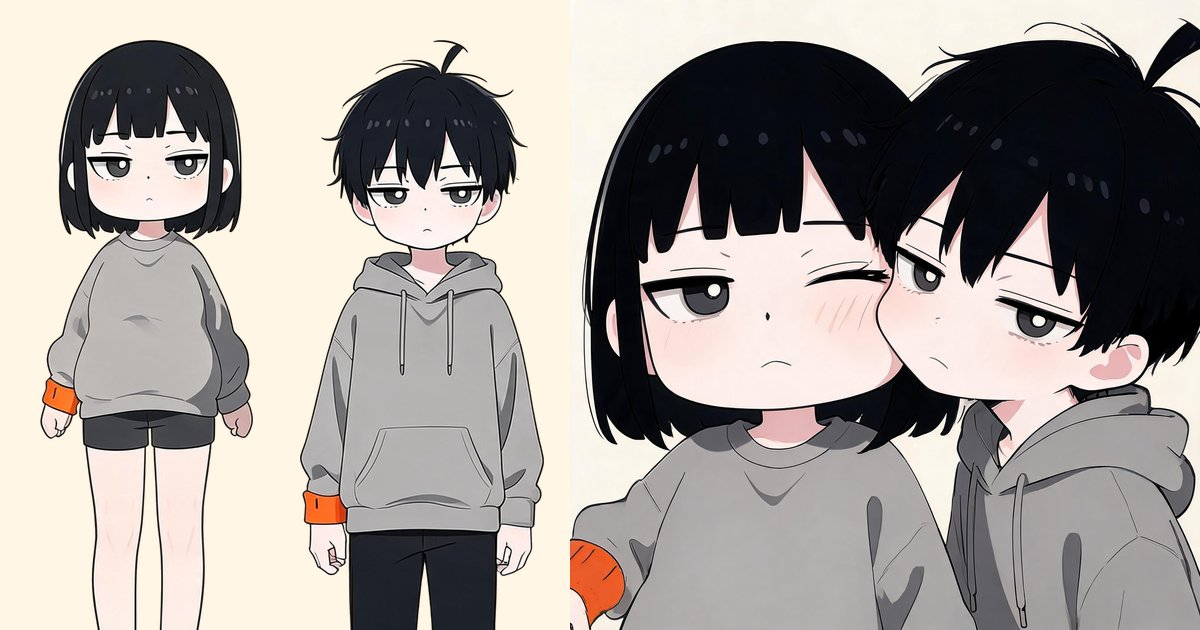
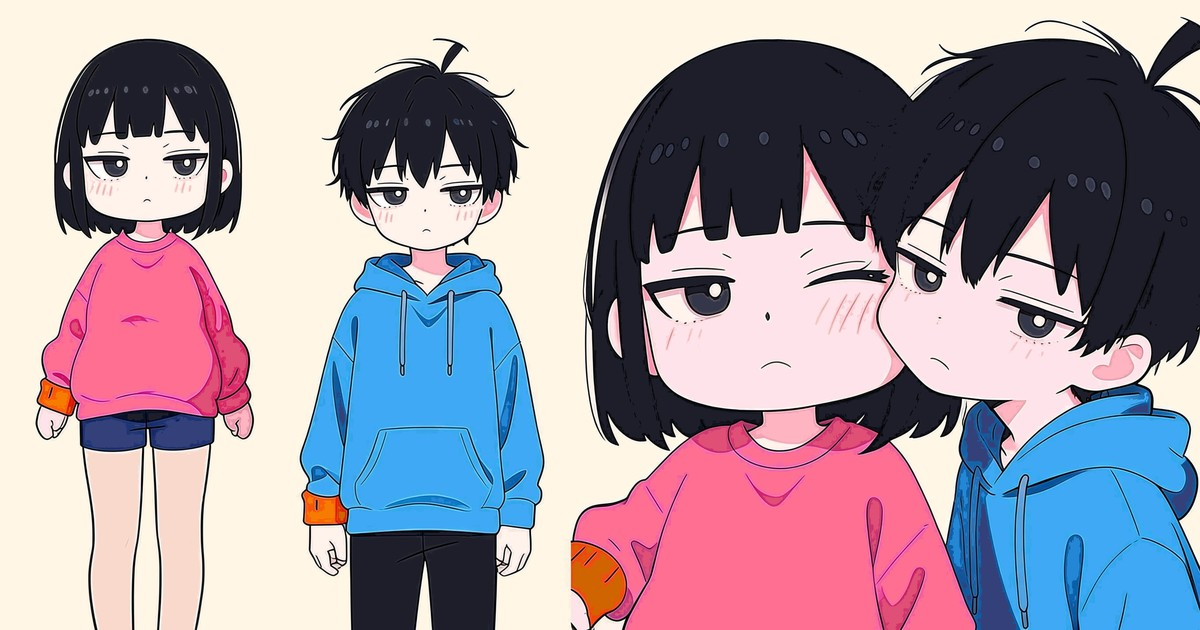
쌍둥이 OG 이미지(og-twins.jpg)를 아동 컬러판(핑크 맨투맨·하늘색 후드)으로 다시 칠함

diff --git a/_tests/test_recolor_og_twins.py b/_tests/test_recolor_og_twins.py
@@ -1,0 +1,163 @@
+"""Item: recolour the twins OG image (assets/images/twins/og-twins.jpg) to the kids palette.
+
+Done when
+- the file is still a JPEG in RGB mode,
+- its size matches the bb74c20 original (1200x630),
+- it is more colourful than the original and colourfulness >= 5%,
+- the sister's pink sweatshirt (#FF6F91) and the brother's sky hoodie (#3FA9F5)
+  are visible (the mono original has neither: both < 0.1%),
+- the left panel keeps its cream (#FFF6E5) background,
+- work PNGs / candidates live only outside the repo (TEMP), never in it.
+
+Note: the mono base already scores ~0.22 on imgcheck.colourfulness because its
+blue-black hair counts as saturated, so the garment checks are what prove the
+recolour actually happened.
+Run: python _tests/test_recolor_og_twins.py
+"""
+import colorsys
+import os
+import subprocess
+import sys
+import unittest
+
+sys.dont_write_bytecode = True
+sys.path.insert(0, os.path.dirname(os.path.abspath(__file__)))
+import imgcheck  # noqa: E402
+
+REL = "assets/images/twins/og-twins.jpg"
+BASE_SIZE = (1200, 630)
+MIN_COLOUR = 0.05      # completion criterion: colourfulness >= 5%
+MIN_SHARE = 0.03       # each garment colour must cover >= 3% of the picture
+BASE_MAX_SHARE = 0.01  # sanity: the mono base must stay below this
+
+
+def hue_share(img, lo, hi, sat_min=0.30, val_min=0.0, val_max=1.0, max_side=256):
+    """Share of opaque pixels whose hue is in [lo, hi] (wraps if lo > hi)."""
+    img = img.convert("RGBA")
+    if max(img.size) > max_side:
+        img = img.copy()
+        img.thumbnail((max_side, max_side), imgcheck.Image.NEAREST)
+    total = hits = 0
+    for r, g, b, a in img.getdata():
+        if a < 128:
+            continue
+        total += 1
+        h, s, v = colorsys.rgb_to_hsv(r / 255, g / 255, b / 255)
+        h *= 360
+        inside = (lo <= h <= hi) if lo <= hi else (h >= lo or h <= hi)
+        if inside and s >= sat_min and val_min <= v <= val_max:
+            hits += 1
+    return hits / total if total else 0.0
+
+
+def pink_share(img):
+    # pink #FF6F91 (hue ~346) and its shadow; bright, so dark reds are excluded
+    return hue_share(img, 325, 10, sat_min=0.30, val_min=0.55)
+
+
+def sky_share(img):
+    # sky #3FA9F5 (hue ~205) and shadow; bright, so blue-black hair is excluded
+    return hue_share(img, 188, 218, sat_min=0.30, val_min=0.70)
+
+
+class TestRecolorOgTwins(unittest.TestCase):
+    def test_file_exists(self):
+        self.assertTrue(os.path.isfile(imgcheck.repo_path(REL)))
+
+    def test_changed_from_base(self):
+        with open(imgcheck.repo_path(REL), "rb") as f:
+            now = f.read()
+        self.assertNotEqual(imgcheck.original_bytes(REL), now,
+                            "still the bb74c20 (mono) file")
+
+    def test_is_jpeg_rgb(self):
+        # finish writes RGBA; the result must be converted back to an RGB JPEG
+        img = imgcheck.current(REL)
+        self.assertEqual(img.format, "JPEG")
+        self.assertEqual(img.mode, "RGB")
+
+    def test_size_matches_base(self):
+        old, new = imgcheck.original(REL), imgcheck.current(REL)
+        self.assertEqual(new.size, old.size)
+        self.assertEqual(new.size, BASE_SIZE)
+
+    def test_size_and_mode_match_base(self):
+        ok, msg = imgcheck.same_size_mode(REL)
+        self.assertTrue(ok, msg)
+
+    def test_more_colourful_than_base(self):
+        old = imgcheck.colourfulness(imgcheck.original(REL))
+        new = imgcheck.colourfulness(imgcheck.current(REL))
+        self.assertGreater(new, old, f"{old:.3f} -> {new:.3f}")
+        self.assertGreaterEqual(new, MIN_COLOUR, f"{new:.3f} < {MIN_COLOUR}")
+
+    def test_sister_pink_present(self):
+        share = pink_share(imgcheck.current(REL))
+        self.assertGreaterEqual(share, MIN_SHARE, f"pink sweatshirt {share:.3f}")
+
+    def test_brother_sky_present(self):
+        share = sky_share(imgcheck.current(REL))
+        self.assertGreaterEqual(share, MIN_SHARE, f"sky hoodie {share:.3f}")
+
+    def test_cream_background_kept(self):
+        # Left panel sits on cream: its top-left and bottom-left corners must stay
+        # light and warm-neutral (no dark/colour fringe from recolour or snap).
+        img = imgcheck.current(REL).convert("RGB")
+        _w, h = img.size
+        bad = []
+        for xy in [(2, 2), (2, h - 3)]:
+            r, g, b = img.getpixel(xy)
+            if min(r, g, b) < 200 or max(r, g, b) - min(r, g, b) > 40:
+                bad.append(f"{xy}: {(r, g, b)}")
+        self.assertEqual(bad, [], "left panel corners are not cream")
+
+    def test_no_work_files_in_repo(self):
+        out = subprocess.run(
+            ["git", "status", "--porcelain", "--untracked-files=all", "--ignored"],
+            cwd=imgcheck.REPO, capture_output=True, text=True, check=True).stdout
+        stray = [line for line in out.splitlines()
+                 if "og" in line.lower().rsplit("/", 1)[-1]
+                 and line.lower().rstrip('"').endswith((".png", ".webp", ".jpg", ".jpeg"))
+                 and line[3:].strip().strip('"') != REL
+                 and "og-gongdong" not in line]
+        self.assertEqual(stray, [], "work PNG / candidate left inside the repo")
+
+
+class TestHelpers(unittest.TestCase):
+    def test_hue_share_bounds(self):
+        Image = imgcheck.Image
+
+        def solid(rgb, a=255):
+            return Image.new("RGBA", (4, 4), rgb + (a,))
+
+        pink, sky = solid((0xFF, 0x6F, 0x91)), solid((0x3F, 0xA9, 0xF5))
+        navy, cream = solid((0x34, 0x40, 0x7A)), solid((0xFF, 0xF6, 0xE5))
+        hair, grey = solid((20, 24, 40)), solid((128, 128, 128))
+        tang = solid((0xF5, 0x7C, 0x00))
+        self.assertEqual(pink_share(pink), 1.0)
+        self.assertEqual(sky_share(sky), 1.0)
+        for other in (sky, navy, cream, hair, grey, tang):
+            self.assertEqual(pink_share(other), 0.0)
+        for other in (pink, navy, cream, hair, grey, tang):
+            self.assertEqual(sky_share(other), 0.0)
+
+    def test_colour_threshold_edge(self):
+        # 12 of 256 pixels (4.7%) is below MIN_COLOUR, 13 of 256 (5.1%) passes.
+        Image = imgcheck.Image
+        img = Image.new("RGB", (16, 16), (0xFF, 0xF6, 0xE5))
+        for x in range(12):
+            img.putpixel((x, 0), (0x3F, 0xA9, 0xF5))
+        self.assertLess(imgcheck.colourfulness(img), MIN_COLOUR)
+        img.putpixel((12, 0), (0x3F, 0xA9, 0xF5))
+        self.assertGreaterEqual(imgcheck.colourfulness(img), MIN_COLOUR)
+
+    def test_base_lacks_garment_colours(self):
+        # The mono original must fail the garment checks, else they prove nothing.
+        old = imgcheck.original(REL)
+        self.assertEqual((old.format, old.mode, old.size), ("JPEG", "RGB", BASE_SIZE))
+        self.assertLess(pink_share(old), BASE_MAX_SHARE)
+        self.assertLess(sky_share(old), BASE_MAX_SHARE)
+
+
+if __name__ == "__main__":
+    unittest.main(verbosity=1)
